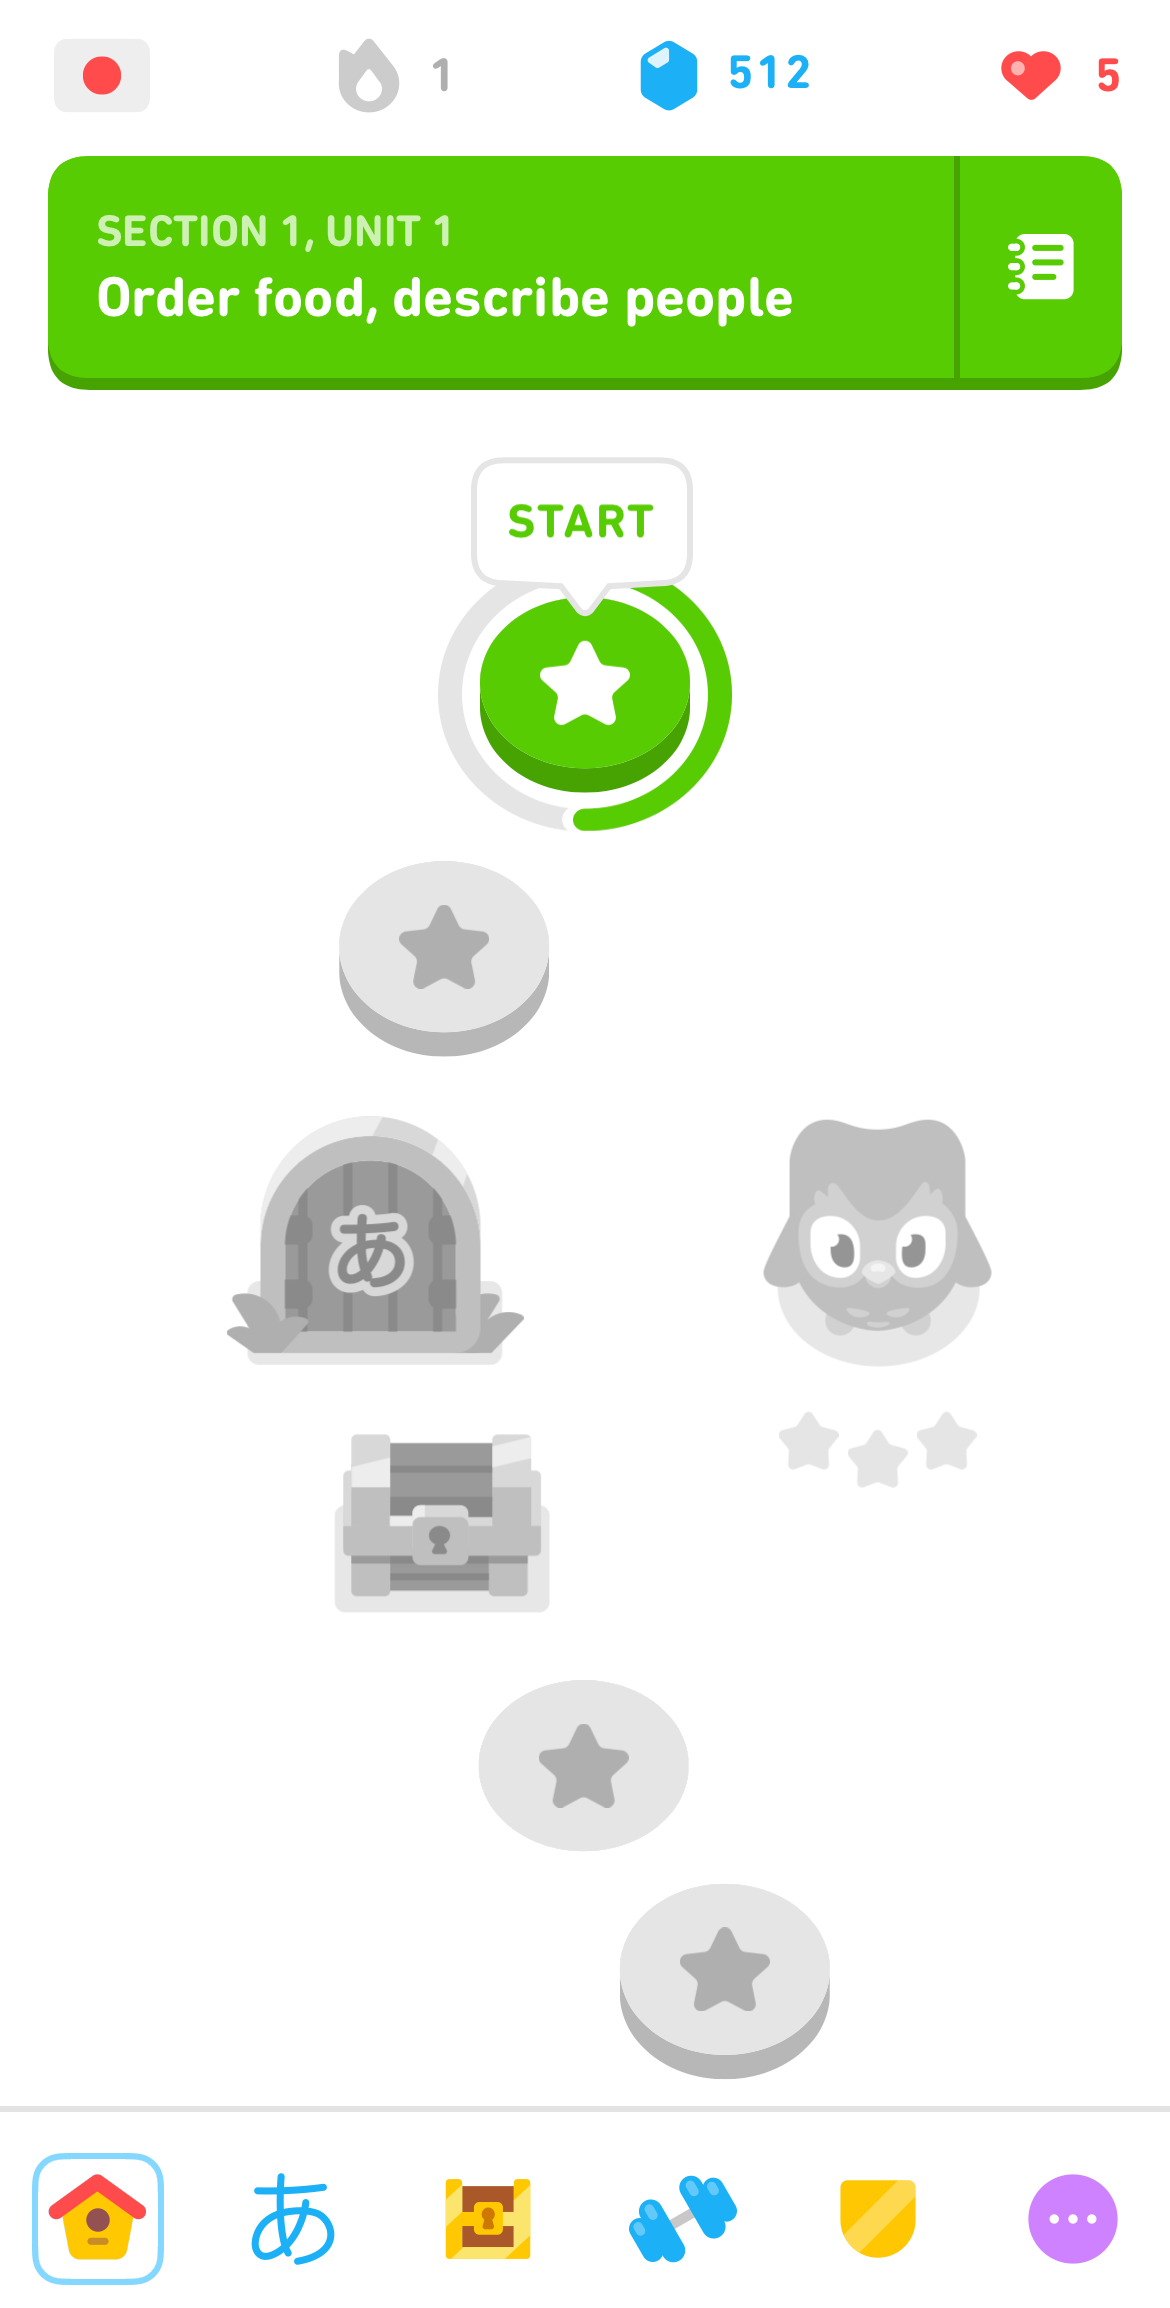
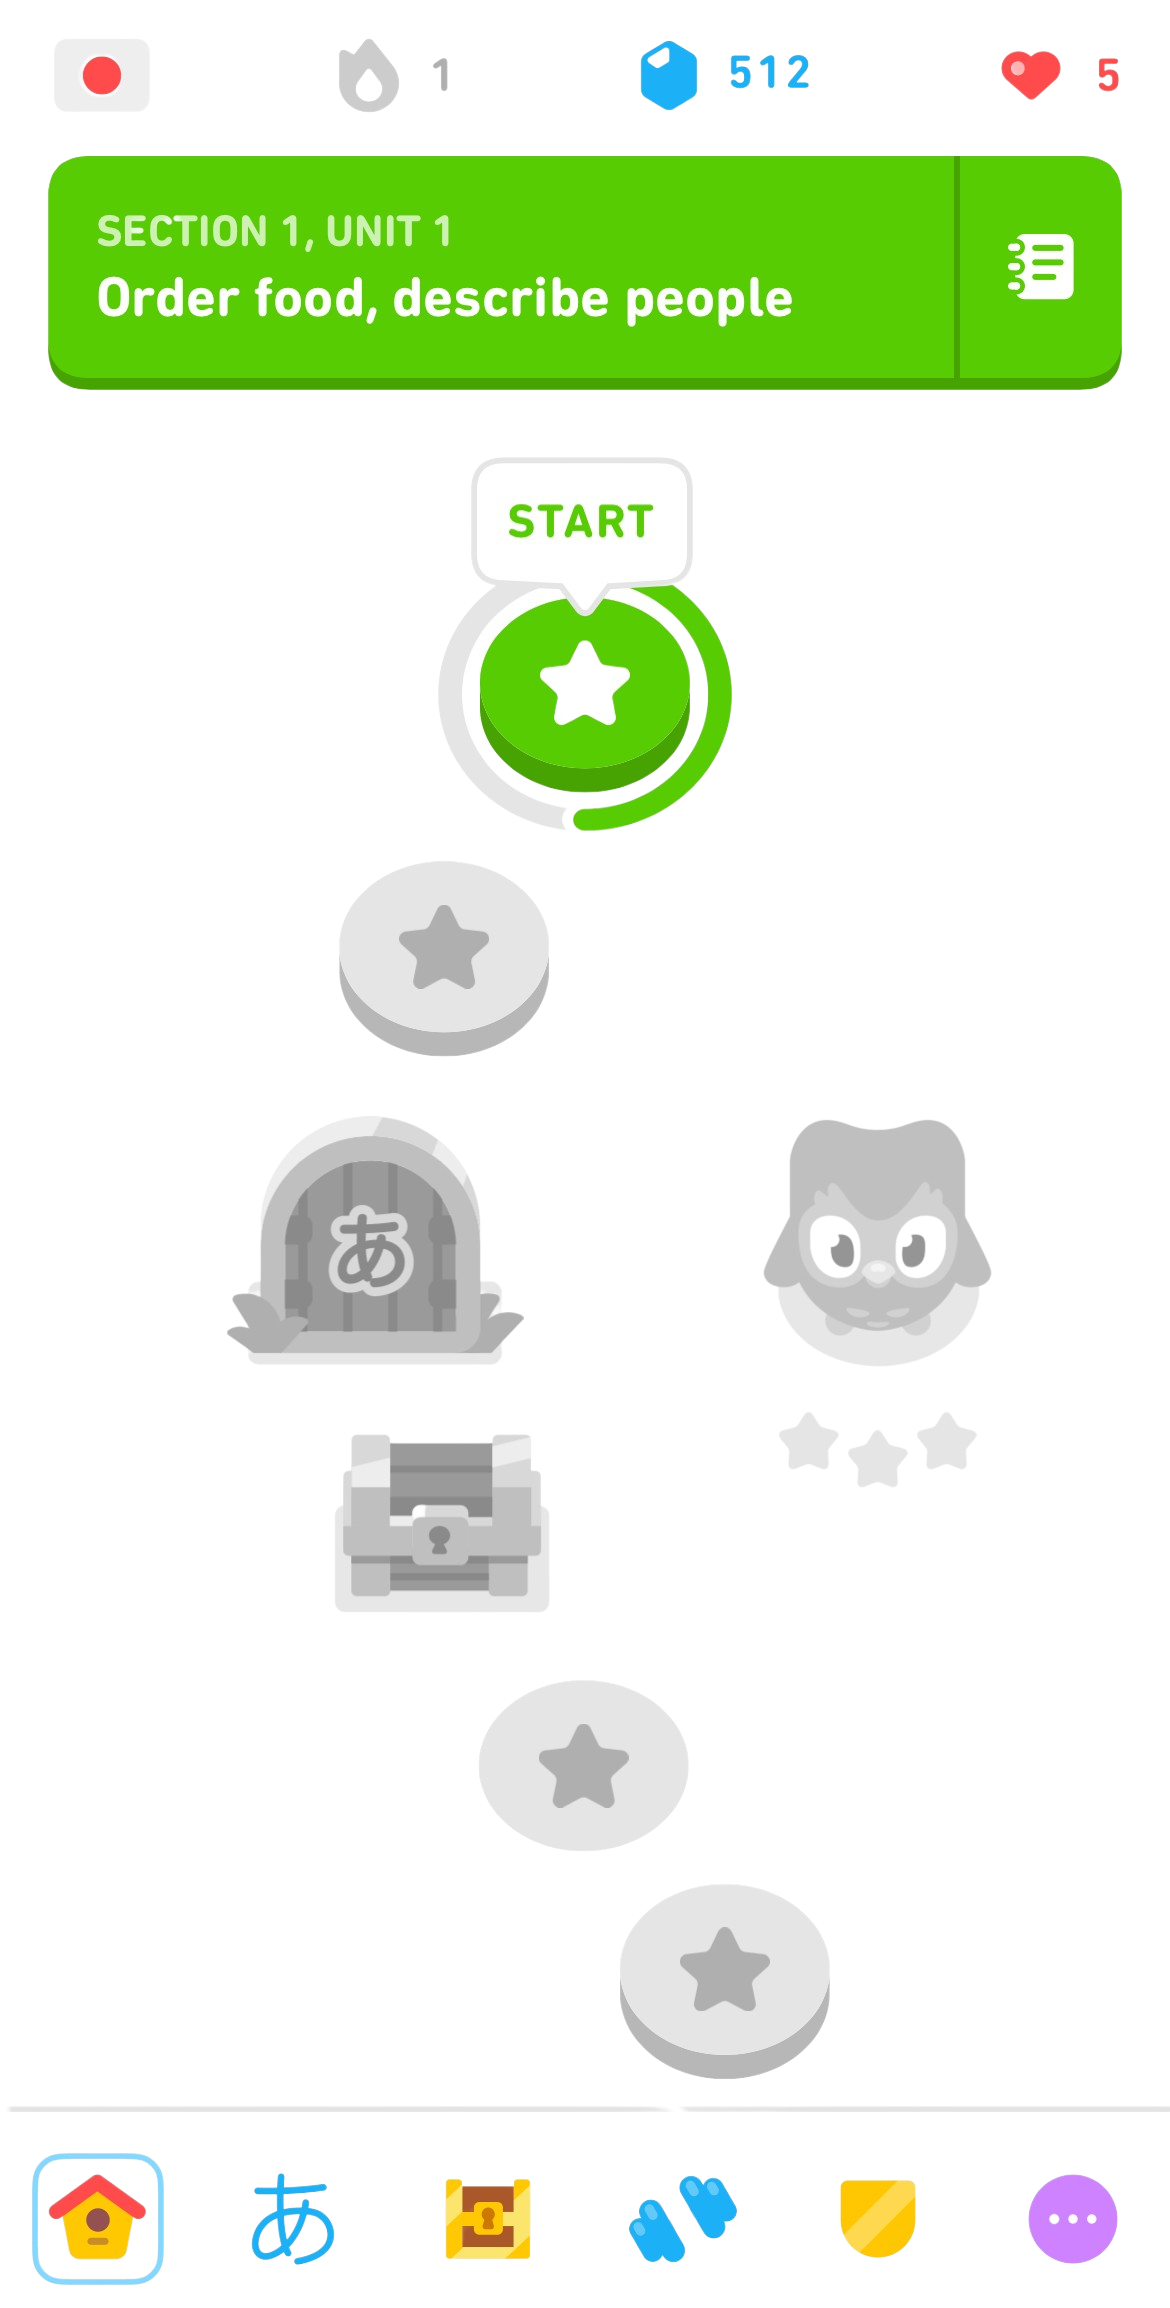
Progress indicator

diff --git a/lib/home/tabs/home_sub_tabs/levels.dart b/lib/home/tabs/home_sub_tabs/levels.dart
@@ -1,10 +1,16 @@
+import 'package:duoclone/home/widgets/sprite_button_label.dart';
 import 'package:duoclone/home/widgets/sprite_level_button.dart';
 import 'package:duoclone/utils/sprites.dart';
 import 'package:flutter/material.dart';
 
-class LevelSelection extends StatelessWidget {
+class LevelSelection extends StatefulWidget {
   const LevelSelection({super.key});
 
+  @override
+  State<LevelSelection> createState() => _LevelSelectionState();
+}
+
+class _LevelSelectionState extends State<LevelSelection> {
   double getMarginLeft(int index) {
     List<double> margins = [
       0,
@@ -27,6 +33,30 @@ class LevelSelection extends StatelessWidget {
     }
   }
 
+  Color progressColor = Colors.red;
+  double progressValue = 0.0;
+
+  void updateProgress() {
+    if (progressValue < 1) {
+      progressValue += 0.1;
+      progressValue = double.parse(progressValue.toStringAsFixed(1));
+      setState(() {
+        if (progressValue < 0.4) {
+          progressColor = Colors.red;
+        } else if (progressValue < 0.6) {
+          progressColor = Colors.yellow;
+        } else {
+          progressColor = Colors.green;
+        }
+      });
+    } else {
+      setState(() {
+        progressValue = 0.0;
+        progressColor = Colors.red;
+      });
+    }
+  }
+
   @override
   Widget build(BuildContext context) {
     return Scaffold(
@@ -40,11 +70,53 @@ class LevelSelection extends StatelessWidget {
                 const SizedBox(
                   height: 16,
                 ),
-                MySpriteLevelButton(
-                  spriteDetails: MySprites.levelStar,
-                  pressedSpriteDetails: MySprites.levelStarPressed,
-                  popoverWidget: const SamplePopover(),
-                  marginLeft: getMarginLeft(0),
+                Stack(
+                  alignment: Alignment.center,
+                  children: [
+                    Align(
+                      alignment: Alignment.center,
+                      child: SizedBox(
+                        height: 100,
+                        width: 100,
+                        child: Stack(
+                          alignment: Alignment.center,
+                          children: [
+                            SizedBox(
+                              height: 100,
+                              width: 100,
+                              child: RotationTransition(
+                                turns: const AlwaysStoppedAnimation(140 / 360),
+                                child: CircularProgressIndicator(
+                                  backgroundColor:
+                                      const Color.fromRGBO(229, 229, 229, 1),
+                                  value: progressValue,
+                                  strokeWidth: 6,
+                                  color: progressColor,
+                                  strokeCap: StrokeCap.round,
+                                ),
+                              ),
+                            ),
+                            if (progressValue >= 0.4)
+                              Align(
+                                alignment: Alignment.bottomRight,
+                                child: MySpriteButton(
+                                    spriteDetails: MySprites.crown),
+                              )
+                          ],
+                        ),
+                      ),
+                    ),
+                    MySpriteLevelButton(
+                      spriteDetails: MySprites.levelStar,
+                      pressedSpriteDetails: MySprites.levelStarPressed,
+                      popoverWidget: const SamplePopover(),
+                      marginLeft: getMarginLeft(0),
+                      onPressed: () {
+                        updateProgress();
+                      },
+                      hasProgress: true,
+                    ),
+                  ],
                 ),
                 const SizedBox(
                   height: 16,

diff --git a/lib/home/widgets/sprite_level_button.dart b/lib/home/widgets/sprite_level_button.dart
@@ -13,12 +13,14 @@ class MySpriteLevelButton extends StatelessWidget {
       required this.popoverWidget,
       required this.marginLeft,
       this.onPressed,
+      this.hasProgress = false,
       this.selected});
   final SpriteDetails spriteDetails;
   final SpriteDetails pressedSpriteDetails;
   final double marginLeft;
   final Function? onPressed;
   final bool? selected;
+  final bool? hasProgress;
   final Widget popoverWidget;
 
   @override
@@ -52,22 +54,23 @@ class MySpriteLevelButton extends StatelessWidget {
                         : EdgeInsets.only(right: -marginLeft),
                     child: SpriteButton(
                       onPressed: () {
-                        // if (onPressed != null) {
-                        //   onPressed!();
-                        // }
-                        showPopover(
-                            context: context,
-                            backgroundColor: Colors.grey,
-                            bodyBuilder: (context) => const Padding(
-                                  padding: EdgeInsets.all(16.0),
-                                  child: SamplePopover(),
-                                ),
-                            onPop: () => print('Popover was popped!'),
-                            direction: PopoverDirection.bottom,
-                            width: 300,
-                            arrowHeight: 15,
-                            arrowWidth: 30,
-                            arrowDxOffset: marginLeft / 2);
+                        if (onPressed != null && hasProgress == true) {
+                          onPressed!();
+                        } else {
+                          showPopover(
+                              context: context,
+                              backgroundColor: Colors.grey,
+                              bodyBuilder: (context) => const Padding(
+                                    padding: EdgeInsets.all(16.0),
+                                    child: SamplePopover(),
+                                  ),
+                              onPop: () => print('Popover was popped!'),
+                              direction: PopoverDirection.bottom,
+                              width: 300,
+                              arrowHeight: 15,
+                              arrowWidth: 30,
+                              arrowDxOffset: marginLeft / 2);
+                        }
                       },
                       width: spriteDetails.customWidth ?? 100,
                       height: spriteDetails.customHeight ?? 100,

diff --git a/lib/main.dart b/lib/main.dart
@@ -1,4 +1,3 @@
-import 'package:duoclone/home/home.dart';
 import 'package:duoclone/utils/routes.dart';
 import 'package:flutter/material.dart';
 
